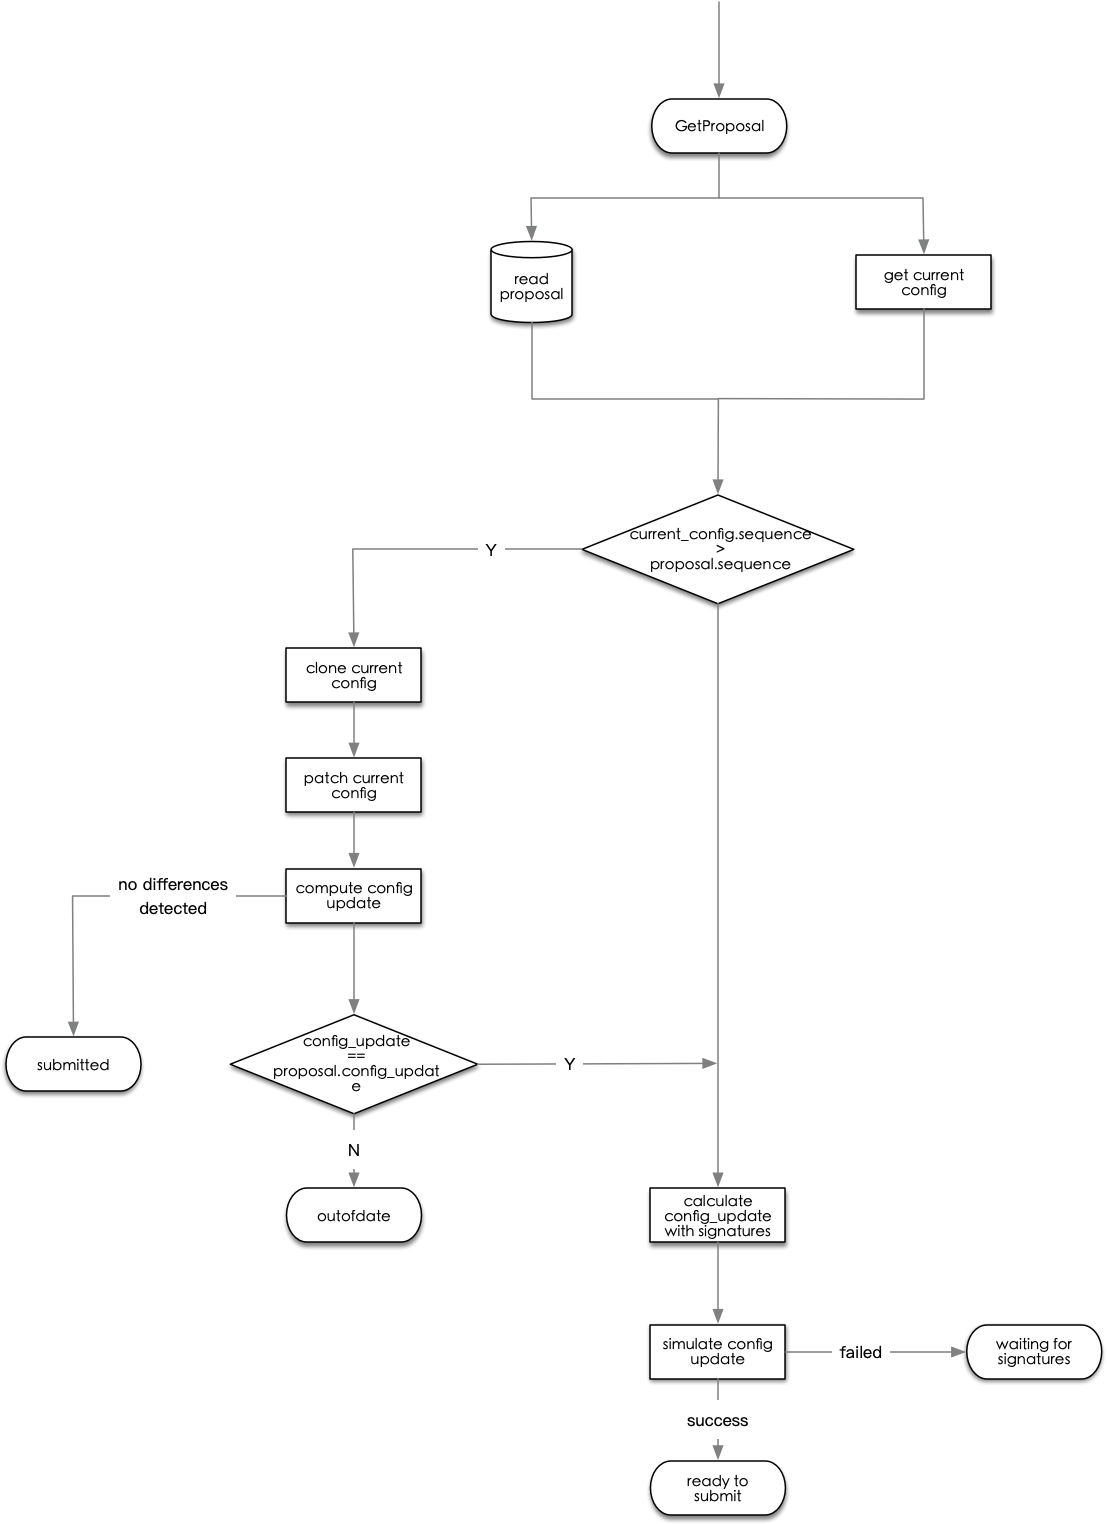
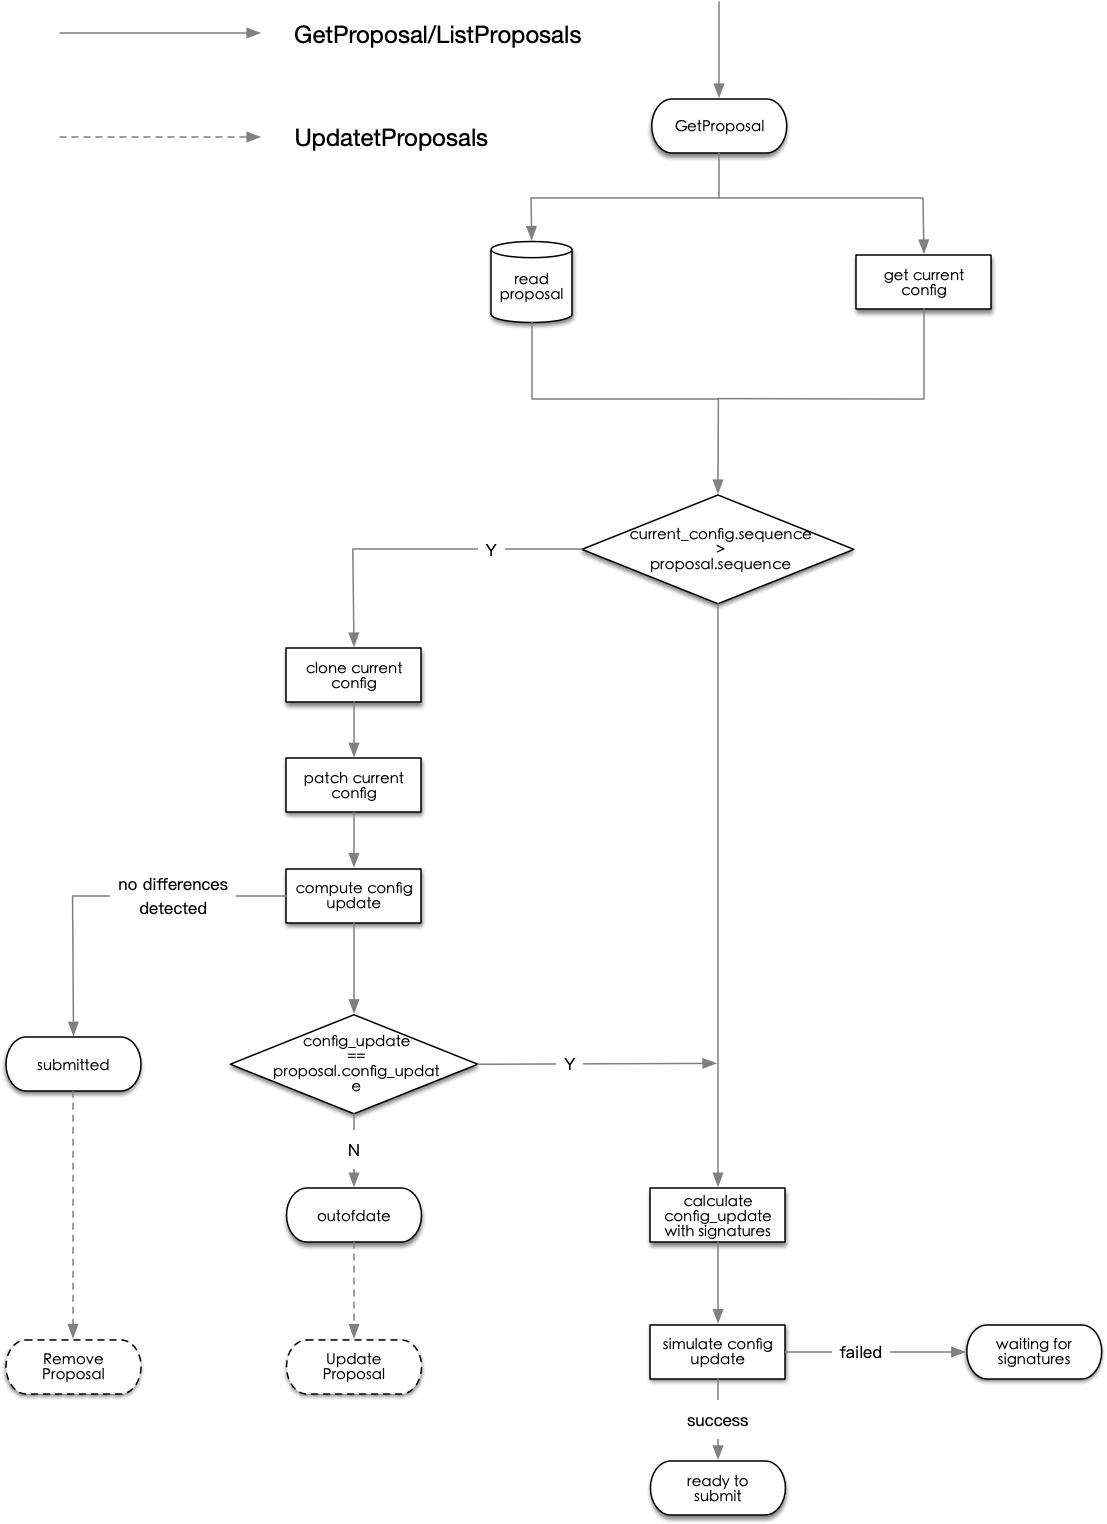
add demo

diff --git a/README.md b/README.md
@@ -35,20 +35,60 @@
 存储所有的proposal，每个proposal包含以下内容：
 ![image](http://gitlab.alibaba-inc.com/aliyun-blockchain/fabric-interop/raw/master/imgs/proposal_ds.png)
 
-1. config是序列化后的Config结构。存储原始信息。
+### config是序列化后的Config结构。存储原始信息。
 ![image](http://gitlab.alibaba-inc.com/aliyun-blockchain/fabric-interop/raw/master/imgs/config_ds.png)
 
-	* 其中Sequence存储计算ConfigUpdate时当前configblock的sequence
-	* 其中ChannelGroup存储用户的输入，他是一种"patch"的形式，存储用户的原始意图。（例如增加组织，就是在Application.Groups里增加一条KV）
-2. config_update是序列化后的ConfigUpdate结构，存储待签名的ConfigUpdate。
-3. signatures的value是序列化后的ConfigSignature结构。存储各个组织上传的签名。
+* 其中Sequence存储计算ConfigUpdate时当前configblock的sequence
+* 其中ChannelGroup存储用户的输入，他是一种"patch"的形式，存储用户的原始意图。（例如增加组织，就是在Application.Groups里增加一条KV）
+### config_update是序列化后的ConfigUpdate结构，存储待签名的ConfigUpdate。
+### signatures的value是序列化后的ConfigSignature结构。存储各个组织上传的签名。
 
 ## ProposeConfigUpdate流程（AddOrgnization、ReconfigOrgnizationMSP与该流程逻辑类似）
 ![image](http://gitlab.alibaba-inc.com/aliyun-blockchain/fabric-interop/raw/master/imgs/propose_config_update.png)
 
-## GetProposal流程（ListProposals、UpdateProposals与该流程逻辑类似）
+## GetProposal/UpdateProposals流程（ListProposals与该流程逻辑类似）
 ![image](http://gitlab.alibaba-inc.com/aliyun-blockchain/fabric-interop/raw/master/imgs/get_proposal.png)
 
+## APP设计
+大部分逻辑内置到chaincode之后，APP设计就较为轻便。主要逻辑分为两部分：
+1. 根据用户的操作，提交ProposeConfigUpdate,AddSignature,UpdateProposals等请求。
+2. 监听cmscc调用事件和configblock事件，发生上述事件后调用ListProposals接口，获取最新的proposals状态展示给用户。
+
+# TODO List
+1. 增加删除Proposal接口
+2. 增加Proposal的owner访问控制。仅允许更新和删除本组织提交的Proposal。
+3. 可配置的EndorsementPolicy。可以通过chaincode的接口配置EndorsementPolicy，而不是固定的SignedByMajorityApplicationOrgnizations
+
 # FAQ
-Q:为何cmscc不主动发起config update的交易，而是需要org1或者org2发起？
-A:设计上智能合约应该是“被动的”，智能合约能主动发起交易是很奇怪的行为。技术上，peer节点不是ChannelWriter，也是无法提交交易给orderer的。
+Q:在集齐签名后，为何cmscc不主动发起config update的交易，而是需要org1或者org2发起？
+A:设计上智能合约应该是“被动的”，智能合约能主动发起交易是很奇怪的行为。技术上，默认peer节点不是ChannelWriter，也是无法提交交易给orderer的。
+
+# Demo（基于fabric-1.4和fabric-samples-1.4）
+源码地址：
+
+[fabric-1.4](http://gitlab.alibaba-inc.com/aliyun-blockchain/fabric-fork/tree/interop-1.4)
+
+[fabric-samples-1.4](http://gitlab.alibaba-inc.com/aliyun-blockchain/fabric-samples-fork/tree/interop-1.4)
+
+运行方法：
+
+* 先编译fabric
+
+```
+  cd fabric
+  make
+```
+
+* 使用fabric-samples/first-network初始化一个两节点的环境
+
+```
+  cd fabric-samples/first-network
+  ./byfn generate
+  ./byfn up
+```
+
+* 运行interop.sh
+
+```
+  ./interop.sh
+```
